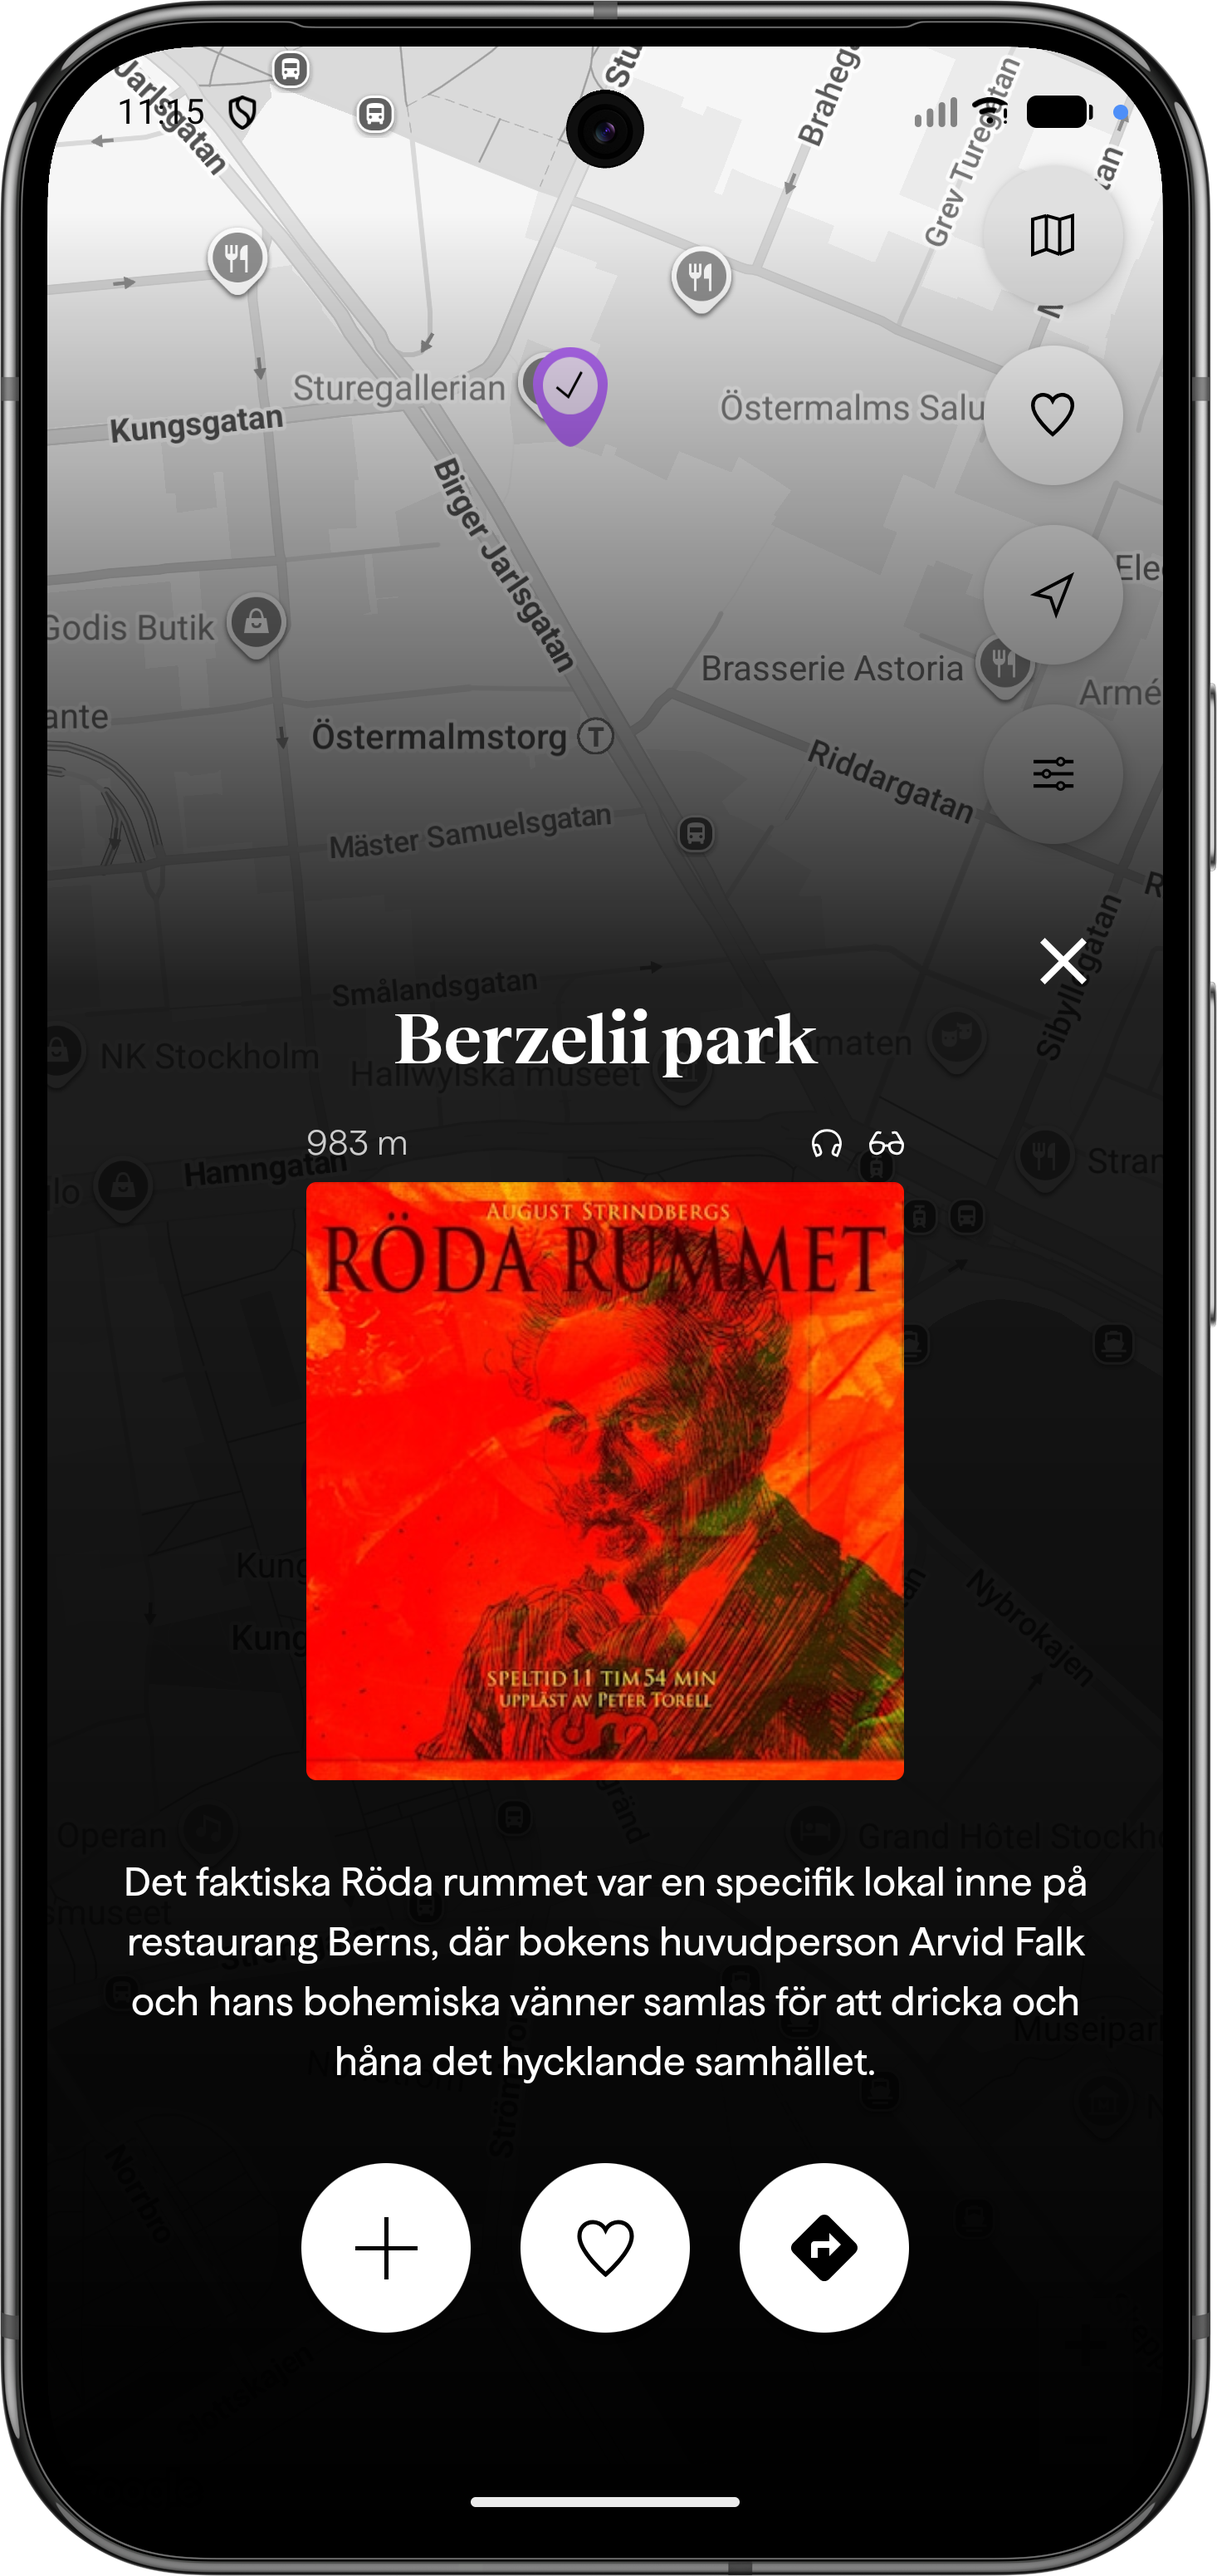
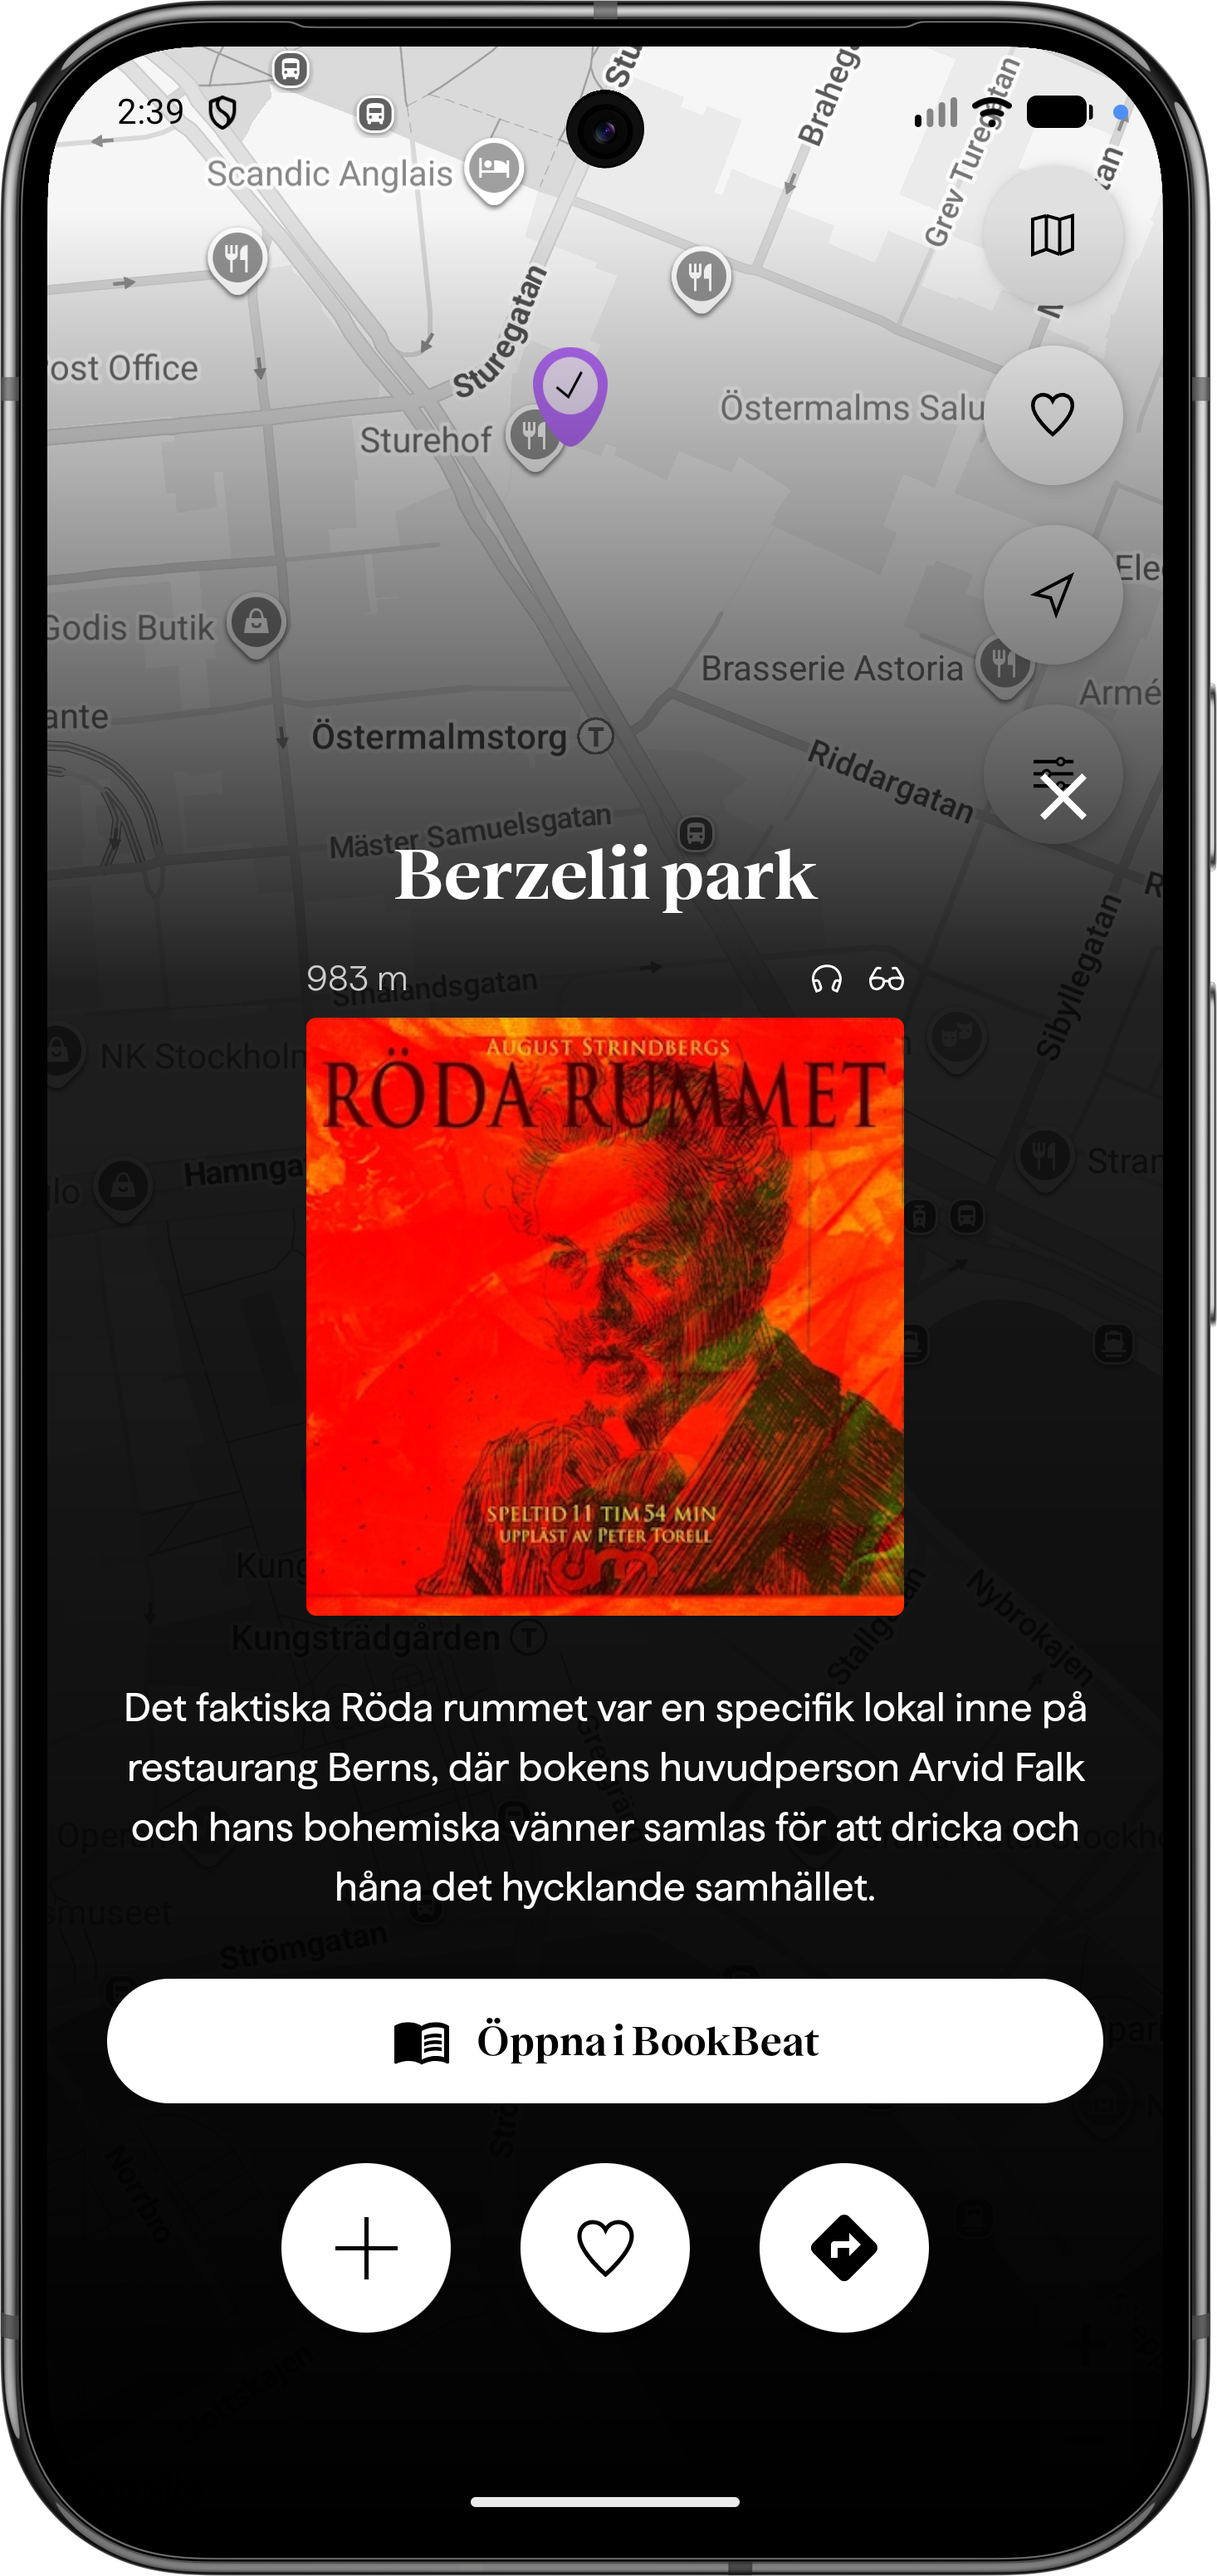
Implement open selected book in BookBeat

diff --git a/app/src/main/java/com/matildaerenius/bookmap/presentation/feature/map/components/BookSummarySheet.kt b/app/src/main/java/com/matildaerenius/bookmap/presentation/feature/map/components/BookSummarySheet.kt
@@ -15,11 +15,13 @@ import androidx.compose.foundation.layout.height
 import androidx.compose.foundation.layout.navigationBarsPadding
 import androidx.compose.foundation.layout.padding
 import androidx.compose.foundation.layout.size
-import androidx.compose.foundation.layout.width
 import androidx.compose.foundation.shape.RoundedCornerShape
 import androidx.compose.material.icons.Icons
+import androidx.compose.material.icons.automirrored.filled.MenuBook
 import androidx.compose.material.icons.filled.Close
 import androidx.compose.material.icons.filled.Directions
+import androidx.compose.material3.Button
+import androidx.compose.material3.ButtonDefaults
 import androidx.compose.material3.Icon
 import androidx.compose.material3.MaterialTheme
 import androidx.compose.material3.Text
@@ -38,11 +40,11 @@ import androidx.compose.ui.text.style.TextAlign
 import androidx.compose.ui.text.style.TextOverflow
 import androidx.compose.ui.tooling.preview.Preview
 import androidx.compose.ui.unit.dp
+import androidx.core.net.toUri
 import coil.compose.AsyncImage
 import com.matildaerenius.bookmap.R
 import com.matildaerenius.bookmap.domain.model.BookMapMarker
 import com.matildaerenius.bookmap.presentation.common.components.BookMediaIcons
-import androidx.core.net.toUri
 import com.matildaerenius.bookmap.presentation.common.components.FloatingActionButtonItem
 import com.matildaerenius.bookmap.presentation.feature.map.MapConstants
 
@@ -52,9 +54,9 @@ fun BookSummarySheet(
     distanceText: String? = null,
     onClose: () -> Unit,
     onToggleFavorite: () -> Unit,
-    onToggleVisit: () -> Unit
+    onToggleVisit: () -> Unit,
+    onOpenBookBeat: () -> Unit
 ) {
-
     val context = LocalContext.current
 
     Box(
@@ -102,11 +104,10 @@ fun BookSummarySheet(
             if (distanceText != null || marker.audio || marker.ebook) {
                 Row(
                     modifier = Modifier
-                        .width(240.dp)
+                        .fillMaxWidth(0.6f)
                         .padding(bottom = 8.dp),
                     verticalAlignment = Alignment.CenterVertically
                 ) {
-
                     if (distanceText != null) {
                         Text(
                             text = distanceText,
@@ -131,12 +132,12 @@ fun BookSummarySheet(
                 contentDescription = marker.bookTitle,
                 modifier = Modifier
                     .size(240.dp, 240.dp)
-                    .clip((RoundedCornerShape(4.dp)))
+                    .clip(RoundedCornerShape(4.dp))
                     .background(Color.Transparent),
                 contentScale = ContentScale.Crop
             )
 
-            Spacer(modifier = Modifier.height(32.dp))
+            Spacer(modifier = Modifier.height(28.dp))
 
             Text(
                 text = marker.description,
@@ -147,11 +148,41 @@ fun BookSummarySheet(
                 overflow = TextOverflow.Ellipsis
             )
 
-            Spacer(modifier = Modifier.height(32.dp))
+            Spacer(modifier = Modifier.height(28.dp))
+
+            Button(
+                onClick = onOpenBookBeat,
+                shape = RoundedCornerShape(50),
+                colors = ButtonDefaults.buttonColors(
+                    containerColor = Color.White,
+                    contentColor = Color.Black
+                ),
+                modifier = Modifier
+                    .fillMaxWidth()
+                    .height(50.dp)
+            ) {
+                Icon(
+                    imageVector = Icons.AutoMirrored.Filled.MenuBook,
+                    contentDescription = stringResource(id = R.string.open_in_bookbeat),
+                    modifier = Modifier.size(24.dp)
+                )
+
+                Spacer(modifier = Modifier.size(10.dp))
+
+                Text(
+                    text = stringResource(id = R.string.open_in_bookbeat),
+                    style = MaterialTheme.typography.titleMedium
+                )
+            }
+
+            Spacer(modifier = Modifier.height(24.dp))
 
             Row(
                 modifier = Modifier.fillMaxWidth(),
-                horizontalArrangement = Arrangement.Center,
+                horizontalArrangement = Arrangement.spacedBy(
+                    space = 28.dp,
+                    alignment = Alignment.CenterHorizontally
+                ),
                 verticalAlignment = Alignment.CenterVertically
             ) {
                 FloatingActionButtonItem(
@@ -160,14 +191,24 @@ fun BookSummarySheet(
                     onClick = { onToggleVisit() },
                     icon = {
                         Icon(
-                            painter = painterResource(id = if (marker.isVisited) R.drawable.check_icon else R.drawable.add_icon),
-                            contentDescription = stringResource(id = if (marker.isVisited) R.string.unmark_visit else R.string.has_visit),
+                            painter = painterResource(
+                                id = if (marker.isVisited) {
+                                    R.drawable.check_icon
+                                } else {
+                                    R.drawable.add_icon
+                                }
+                            ),
+                            contentDescription = stringResource(
+                                id = if (marker.isVisited) {
+                                    R.string.unmark_visit
+                                } else {
+                                    R.string.has_visit
+                                }
+                            ),
                             tint = Color.Black
                         )
                     }
                 )
-
-                Spacer(modifier = Modifier.width(20.dp))
 
                 FloatingActionButtonItem(
                     selected = false,
@@ -175,30 +216,44 @@ fun BookSummarySheet(
                     onClick = { onToggleFavorite() },
                     icon = {
                         Icon(
-                            painter = painterResource(id = if (marker.isFavorite) R.drawable.filled_heart_icon else R.drawable.bigger_heart_icon),
-                            contentDescription = stringResource(id = if (marker.isFavorite) R.string.remove_from_fav else R.string.add_to_fav),
+                            painter = painterResource(
+                                id = if (marker.isFavorite) {
+                                    R.drawable.filled_heart_icon
+                                } else {
+                                    R.drawable.bigger_heart_icon
+                                }
+                            ),
+                            contentDescription = stringResource(
+                                id = if (marker.isFavorite) {
+                                    R.string.remove_from_fav
+                                } else {
+                                    R.string.add_to_fav
+                                }
+                            ),
                             tint = Color.Unspecified
                         )
                     }
                 )
 
-                Spacer(modifier = Modifier.width(20.dp))
-
                 FloatingActionButtonItem(
                     selected = false,
                     buttonSize = 68.dp,
                     onClick = {
-                        val uri =
-                            MapConstants.getNavigationUri(marker.latitude, marker.longitude).toUri()
-                        val intent = Intent(Intent.ACTION_VIEW, uri)
-                        intent.setPackage(MapConstants.GOOGLE_MAPS_PACKAGE)
+                        val uri = MapConstants
+                            .getNavigationUri(marker.latitude, marker.longitude)
+                            .toUri()
+
+                        val intent = Intent(Intent.ACTION_VIEW, uri).apply {
+                            setPackage(MapConstants.GOOGLE_MAPS_PACKAGE)
+                        }
 
                         try {
                             context.startActivity(intent)
                         } catch (e: ActivityNotFoundException) {
-                            val fallbackUri =
-                                MapConstants.getFallbackWebUrl(marker.latitude, marker.longitude)
-                                    .toUri()
+                            val fallbackUri = MapConstants
+                                .getFallbackWebUrl(marker.latitude, marker.longitude)
+                                .toUri()
+
                             val webIntent = Intent(Intent.ACTION_VIEW, fallbackUri)
                             context.startActivity(webIntent)
                         }
@@ -217,19 +272,18 @@ fun BookSummarySheet(
     }
 }
 
-
 @Preview(showBackground = true, backgroundColor = 0xFF121212)
 @Composable
 fun BookSummarySheetPreview() {
     MaterialTheme {
         val dummyMarker = BookMapMarker(
-            bookId = 1,
-            locationName = "Gamla Stan",
+            bookId = 327,
+            locationName = "Johannes kyrka",
             latitude = 59.3257,
             longitude = 18.0709,
-            bookTitle = "Män som hatar kvinnor",
-            bookAuthor = "Stieg Larsson",
-            description = "Den ryska prickskytten Sokol jagar Leila Bolt genom de trånga gränderna i Gamla Stan i en livsfarlig katt och råtta lek.",
+            bookTitle = "Röda rummet",
+            bookAuthor = "August Strindberg",
+            description = "Arvid Stjärnblom och Lydia Stille har flera av sina vemodiga, hemliga och avgörande möten under träden på Johannes kyrkogård.",
             bookImageUrl = "",
             isFavorite = false,
             isVisited = false,
@@ -241,7 +295,8 @@ fun BookSummarySheetPreview() {
             marker = dummyMarker,
             onToggleFavorite = {},
             onClose = {},
-            onToggleVisit = {}
+            onToggleVisit = {},
+            onOpenBookBeat = {}
         )
     }
 }

diff --git a/app/src/main/java/com/matildaerenius/bookmap/presentation/feature/map/MapScreen.kt b/app/src/main/java/com/matildaerenius/bookmap/presentation/feature/map/MapScreen.kt
@@ -28,9 +28,12 @@ import com.matildaerenius.bookmap.presentation.feature.map.components.BookGoogle
 import kotlinx.coroutines.flow.distinctUntilChanged
 import kotlinx.coroutines.flow.filterNotNull
 import android.annotation.SuppressLint
+import android.content.Intent
 import android.location.Location
 import androidx.compose.foundation.layout.WindowInsets
+import androidx.core.net.toUri
 import com.google.android.gms.location.LocationServices.getFusedLocationProviderClient
+import com.matildaerenius.bookmap.core.BookBeatUrlBuilder
 import com.matildaerenius.bookmap.core.getFormattedDistance
 import com.matildaerenius.bookmap.presentation.feature.map.components.MapActionButtons
 import com.matildaerenius.bookmap.presentation.feature.map.components.MapFilterDialog
@@ -225,6 +228,20 @@ fun MapScreen(
                                 state.selectedMarker!!.isVisited
                             )
                         )
+                    },
+                    onOpenBookBeat = {
+                        val selectedMarker = state.selectedMarker ?: return@BookSummarySheet
+
+                        val bookBeatUrl = BookBeatUrlBuilder.createBookUrl(
+                            bookTitle = selectedMarker.bookTitle,
+                            bookId = selectedMarker.bookId
+                        )
+
+                        val intent = Intent(Intent.ACTION_VIEW, bookBeatUrl.toUri()).apply {
+                            addCategory(Intent.CATEGORY_BROWSABLE)
+                        }
+
+                        context.startActivity(intent)
                     }
                 )
             }

diff --git a/app/src/main/java/com/matildaerenius/bookmap/core/BookBeatUrlBuilder.kt b/app/src/main/java/com/matildaerenius/bookmap/core/BookBeatUrlBuilder.kt
@@ -1,0 +1,23 @@
+package com.matildaerenius.bookmap.core
+
+import java.text.Normalizer
+import java.util.Locale
+
+object BookBeatUrlBuilder {
+
+    private const val BOOKBEAT_BOOK_BASE_URL = "https://www.bookbeat.com/se/book"
+
+    fun createBookUrl(
+        bookTitle: String,
+        bookId: Int
+    ): String {
+        val slug = Normalizer.normalize(bookTitle, Normalizer.Form.NFD)
+            .lowercase(Locale.ROOT)
+            .replace("\\p{InCombiningDiacriticalMarks}+".toRegex(), "")
+            .replace("[^a-z0-9]+".toRegex(), "-")
+            .trim('-')
+            .ifBlank { "book" }
+
+        return "$BOOKBEAT_BOOK_BASE_URL/$slug-$bookId"
+    }
+}
